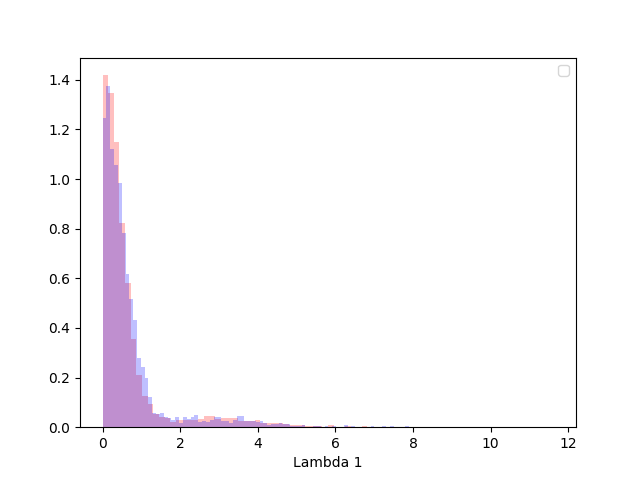
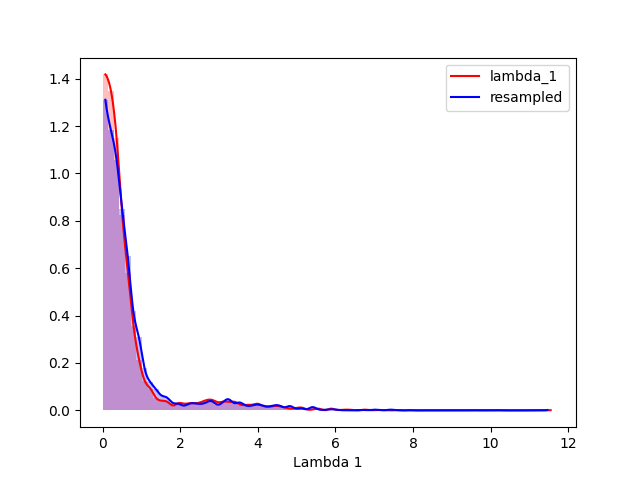
Tried ks-test and a splined histogram plot :) take5.

diff --git a/year3/lastStretch/lambdaReflectionStudy/reflectionTests.py b/year3/lastStretch/lambdaReflectionStudy/reflectionTests.py
@@ -189,8 +189,8 @@ def ksTest():
     plt.clf()
     plt.bar(bin_edgesDef[:-1],histDef,width=np.diff(bin_edgesDef),align='edge',color='red',alpha=0.25)
     plt.bar(bin_edgesResamp[:-1],histResamp,width=np.diff(bin_edgesResamp),align='edge',color='blue',alpha=0.25)
-    #plt.plot(bin_centDef_smooth,histDef_smooth,color='red',label="lambda_1")
-    #plt.plot(bin_centResamp_smooth,histResamp_smooth,color='blue',label="resampled")
+    plt.plot(bin_centDef_smooth,histDef_smooth,color='red',label="lambda_1")
+    plt.plot(bin_centResamp_smooth,histResamp_smooth,color='blue',label="resampled")
     plt.legend()
     plt.xlabel("Lambda 1")
     plt.savefig("spline_method12.png")
